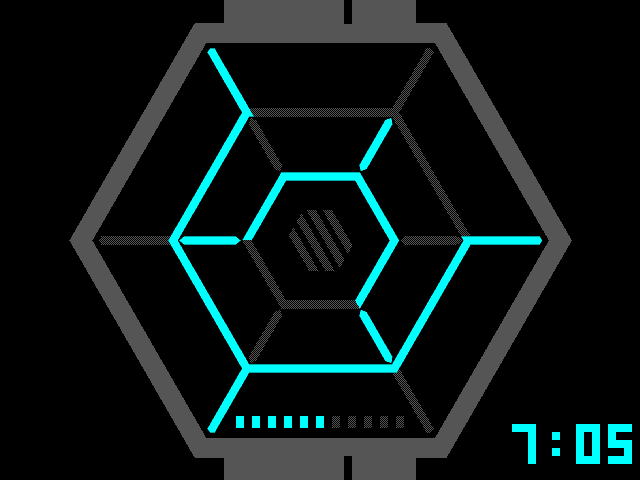
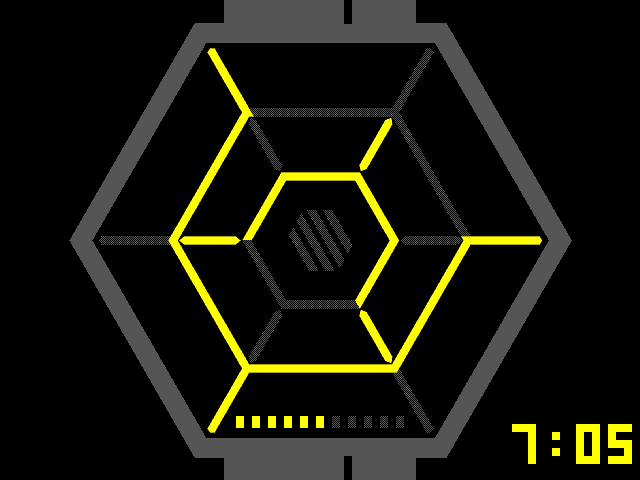
Date in digits, yellow as the reset colour
In the date view the digits show the date with a slash (7/23); they
now read the same numbers the face draws its lines from. Cyan and
yellow trade places in the colour table, so the face is yellow after
reset.

diff --git a/test/test.py b/test/test.py
@@ -21,7 +21,7 @@ SET_COLOUR, GRID = 0b0000_0100, 0b0000_1000
 BTN_A, BTN_B = 0b0000_0001, 0b0000_0010
 
 BLACK, GREY = (0, 0, 0), (1, 1, 1)
-CYAN, RED = (0, 3, 3), (3, 0, 0)
+YELLOW, RED = (3, 3, 0), (3, 0, 0)
 
 # Probe points (x, y); the face is centred on (320, 240).
 BACKGROUND = (10, 240)
@@ -149,10 +149,10 @@ async def test_face(dut):
     assert got == {"bg": BLACK, "body": GREY, "strap": GREY, "bar": BLACK}, got
     assert await scr.web(A_TOP)
 
-    # The outer ring is drawn on by frame 16: 12:00, hard mode, cyan.
+    # The outer ring is drawn on by frame 16: 12:00, hard mode, yellow.
     await scr.skip(16)
     got = await scr.frame({"a": A_TOP, "o3": SPOKE_O3, "o9": SPOKE_O9, "bar": BAR_TOP})
-    assert got == {"a": CYAN, "o3": CYAN, "o9": CYAN, "bar": BLACK}, got
+    assert got == {"a": YELLOW, "o3": YELLOW, "o9": YELLOW, "bar": BLACK}, got
     assert await scr.web(A_BOTTOM)
     # No seconds tick is lit in the first five seconds.
     assert await scr.web(TICK_1) and await scr.web(TICK_6)
@@ -160,14 +160,14 @@ async def test_face(dut):
     # Hour button: 1:00.  Hard mode shows only the spokes at 9 and 5.
     await press(BTN_A)
     got = await scr.frame({"a": A_TOP, "o3": SPOKE_O3, "o9": SPOKE_O9, "o5": SPOKE_O5, "o1": SPOKE_O1})
-    assert got["o9"] == CYAN and got["o5"] == CYAN, got
-    assert CYAN not in (got["a"], got["o3"], got["o1"]), got
+    assert got["o9"] == YELLOW and got["o5"] == YELLOW, got
+    assert YELLOW not in (got["a"], got["o3"], got["o1"]), got
 
     # Medium joins them round the large hexagon.
     ui(MEDIUM)
     await scr.skip(2)
     got = await scr.frame({"a": A_TOP, "o1": SPOKE_O1})
-    assert got["a"] == CYAN and got["o1"] != CYAN, got
+    assert got["a"] == YELLOW and got["o1"] != YELLOW, got
 
     # Both mode pins: easy, with the time in digits in the lower right.
     assert await scr.pixel(COLON) == BLACK
@@ -175,7 +175,7 @@ async def test_face(dut):
     await scr.skip(2)
     x, y = COLON
     got = await scr.frame({"dot": COLON, "gap": (x, y + 8), "o1": SPOKE_O1})
-    assert got == {"dot": CYAN, "gap": BLACK, "o1": CYAN}, got
+    assert got == {"dot": YELLOW, "gap": BLACK, "o1": YELLOW}, got
 
     # Easy adds the spoke at 1.  With SET_COLOUR, button A steps the colour
     # to red and leaves the hour alone.
@@ -253,6 +253,13 @@ async def test_face(dut):
                            "i5": SPOKE_I5})
     assert got["o9"] == RED and got["o5"] == RED and got["b"] == RED and got["s1"] == RED, got
     assert RED not in (got["a"], got["i5"]), got
+
+    # Digits in the date view: a slash where the colon was.
+    ui(DATE | MEDIUM | EASY)
+    await scr.skip(2)
+    x, y = COLON
+    got = await scr.frame({"slash": (x + 8, y - 8), "colon": COLON})
+    assert got == {"slash": RED, "colon": BLACK}, got
 
     # The seconds ticks: the time was cleared at the last press of both in
     # the time view; five seconds (300 frames) after it the first tick lights.

diff --git a/docs/info.md b/docs/info.md
@@ -40,7 +40,8 @@ and the **bottom bar blinks** once a second.
 
 With **both mode pins high** the face is in easy mode and the time is also
 written in digits in the lower right corner (12 hour, in a 3x5 font), for
-checking your reading. The digits always show the time, also in the date view.
+checking your reading. In the date view the digits are the date, month first:
+`7/23` is 23 July.
 
 ![12:38 with the digits on](screenshots/d_1238.png)
 
@@ -90,7 +91,7 @@ reset the face draws on and shows 12:00 AM, 1 January.
 | `ui[2]` | Button A steps the LED colour instead of the hour or month |
 | `ui[3]` | Grid on: high draws the unlit segments dimly; low shows only the lit ones and the watch body |
 | `ui[4]` | Show the date instead of the time |
-| `ui[6:5]` | Mode: 00 hard, 01 medium, 10 easy, 11 easy with the time in digits |
+| `ui[6:5]` | Mode: 00 hard, 01 medium, 10 easy, 11 easy with the time (or date) in digits |
 | `ui[7]` | Fast: the clock runs 900 times faster, a minute every 4 frames |
 
 The two buttons set whatever is on screen. A press advances its field by
@@ -101,8 +102,8 @@ view. Nothing else changes, so a host can set any time or date by clearing
 and then counting presses. The inputs are sampled once per frame, which
 debounces them.
 
-The LED colour steps through cyan (after reset), red, green, blue, magenta,
-yellow, amber and white.
+The LED colour steps through yellow (after reset), red, green, blue, magenta,
+cyan, amber and white.
 
 ## External hardware
 
